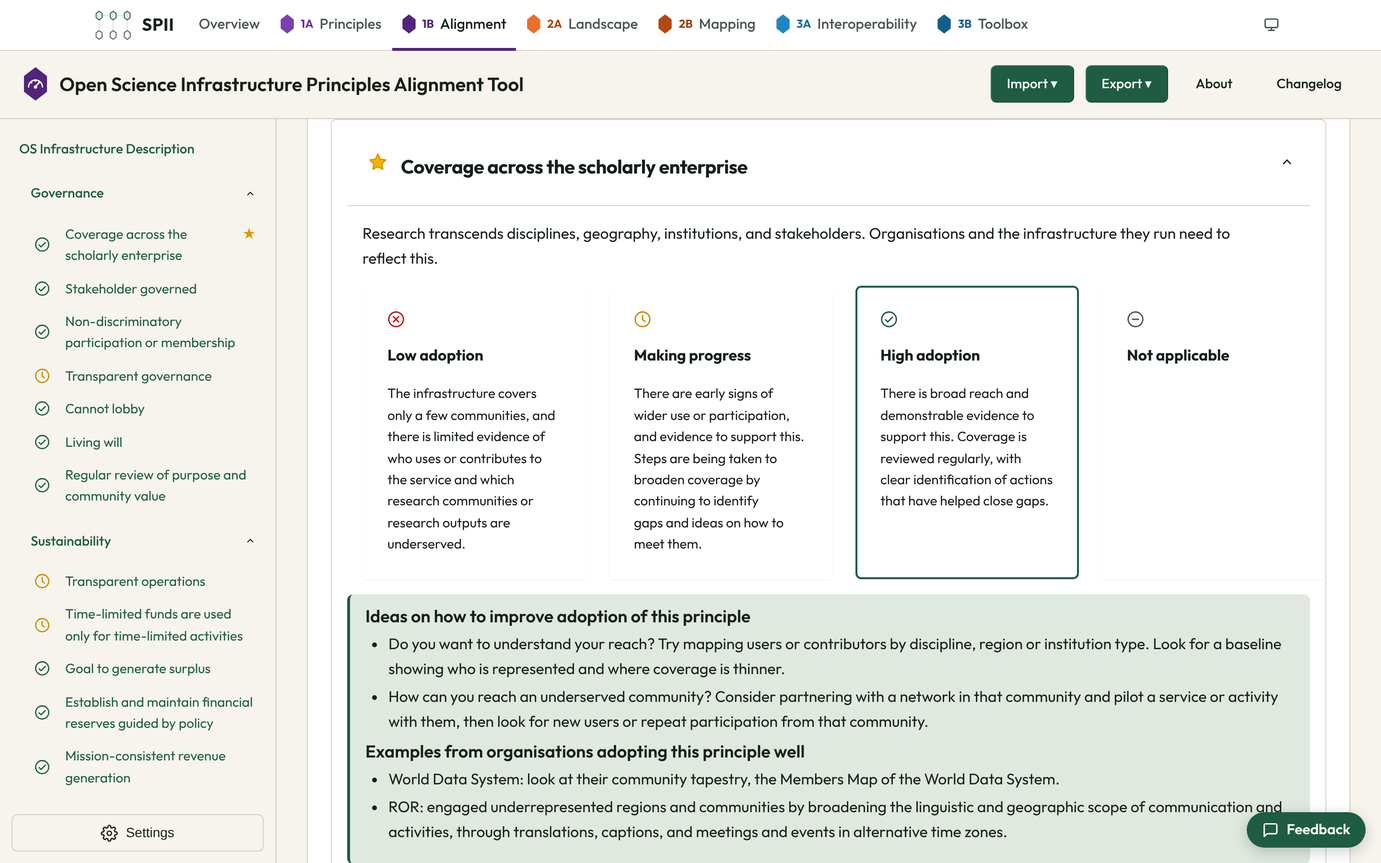
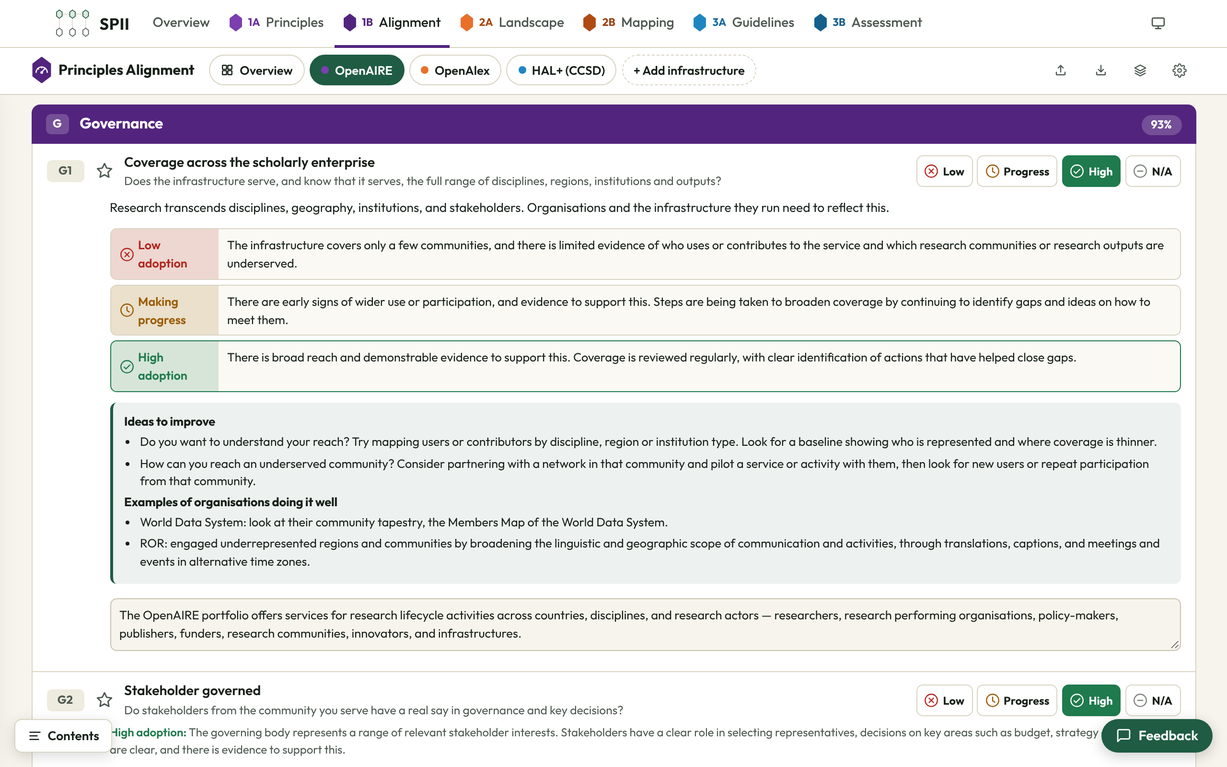
Presentation: new interface, QR codes, new 3A and 3B names
The how, frameworks and overview slides show the new interface; the
cover and the last slide have a QR code to the tool; the six-deliverable
slide uses the new names of 3A and 3B.

Claude-Session: https://claude.ai/code/session_01Ty7TZndw3rZSH1jYcDeSGp

diff --git a/docs/presentation/2026-12-02-osnl/index.html b/docs/presentation/2026-12-02-osnl/index.html
@@ -113,6 +113,14 @@ body.show-notes aside.notes { display: block; position: absolute; left: 0; right
   .deliv, .pcard, .ncard, .shot { animation: none; }
   #hud { display: none; }
 }
+
+/* QR codes and the new try-it layout (2026-11-27) */
+.cover-side { display: flex; flex-direction: column; align-items: center; gap: 24px; }
+.qr-row { display: flex; flex-direction: row; align-items: center; gap: 24px; }
+.qr-cap { font-size: 26px; line-height: 1.3; color: var(--on-dark-muted); }
+.url { font-size: 48px; line-height: 1.2; }
+.try-top { display: flex; flex-direction: row; align-items: center; gap: 64px; }
+.try-head { flex: 1; display: flex; flex-direction: column; gap: 32px; }
 </style>
 </head>
 <body>
@@ -125,9 +133,12 @@ body.show-notes aside.notes { display: block; position: absolute; left: 0; right
 <p class="lead">Self-assess how your Open Science infrastructure puts shared values and principles into practice.</p>
 <p class="cover-meta">Maurice Vanderfeesten, SURF · Open Science NL, 2 December 2026</p>
 </div>
-<svg aria-label="The six SPII deliverables as hexagons: three reference model parts on top, each with its tool below" viewBox="50 35 220 180" width="220" height="180" style="width:660px;height:540px"><g fill="none" stroke="#3a4539" stroke-width="2"><line x1="80" y1="70" x2="80" y2="180"/><line x1="160" y1="70" x2="160" y2="180"/><line x1="240" y1="70" x2="240" y2="180"/><line x1="80" y1="70" x2="240" y2="70"/></g><polygon points="80,45 97,58 97,82 80,95 63,82 63,58" fill="#7B3FB0" stroke="#7B3FB0" stroke-width="3" stroke-linejoin="round"/><g transform="translate(80 70) scale(0.62)" fill="none" stroke="#fff" stroke-width="3.54839" stroke-linecap="round" stroke-linejoin="round"><path d="M0 -18V16M-10 16H10M-17 -11H17M-17 -11L-22 3M-17 -11L-12 3M17 -11L12 3M17 -11L22 3"/><path d="M-22 3H-12A5 4 0 0 1 -22 3ZM12 3H22A5 4 0 0 1 12 3Z"/><circle cx="0" cy="-18" r="2.2"/></g><polygon points="80,155 97,168 97,192 80,205 63,192 63,168" fill="#52247D" stroke="#52247D" stroke-width="3" stroke-linejoin="round"/><g transform="translate(80 180) scale(0.62)" fill="none" stroke="#fff" stroke-width="3.54839" stroke-linecap="round" stroke-linejoin="round"><path d="M-18 8A18 18 0 0 1 18 8"/><path d="M-12.7 -4.7L-10 -2.6M0 -10V-6.5M12.7 -4.7L10 -2.6"/><path d="M0 8L9 -4"/><circle cx="0" cy="8" r="2.6"/></g><polygon points="160,45 177,58 177,82 160,95 143,82 143,58" fill="#E8702A" stroke="#E8702A" stroke-width="3" stroke-linejoin="round"/><g transform="translate(160 70) scale(0.62)" fill="none" stroke="#fff" stroke-width="3.54839" stroke-linecap="round" stroke-linejoin="round"><path d="M-17 16C-6 16 -14 2 -3 2S6 -8 12 -8" stroke-dasharray="3 4"/><circle cx="-17" cy="16" r="3"/><path d="M13 -2C9 -7 7 -10 7 -13A6 6 0 0 1 19 -13C19 -10 17 -7 13 -2Z"/></g><polygon points="160,155 177,168 177,192 160,205 143,192 143,168" fill="#B04A12" stroke="#B04A12" stroke-width="3" stroke-linejoin="round"/><g transform="translate(160 180) scale(0.62)" fill="none" stroke="#fff" stroke-width="3.54839" stroke-linecap="round" stroke-linejoin="round"><path d="M0 0L0 -15M0 0L-15 -4M0 0L14 -6M0 0L-8 14M0 0L11 13M-15 -4L0 -15L14 -6M-8 14L11 13"/><circle cx="0" cy="0" r="3.2"/><circle cx="0" cy="-15" r="2.6"/><circle cx="-15" cy="-4" r="2.6"/><circle cx="14" cy="-6" r="2.6"/><circle cx="-8" cy="14" r="2.6"/><circle cx="11" cy="13" r="2.6"/></g><polygon points="240,45 257,58 257,82 240,95 223,82 223,58" fill="#1F86C1" stroke="#1F86C1" stroke-width="3" stroke-linejoin="round"/><g transform="translate(240 70) scale(0.62)" fill="none" stroke="#fff" stroke-width="3.54839" stroke-linecap="round" stroke-linejoin="round"><circle cx="-6" cy="0" r="11"/><circle cx="6" cy="0" r="11"/></g><polygon points="240,155 257,168 257,192 240,205 223,192 223,168" fill="#145F8C" stroke="#145F8C" stroke-width="3" stroke-linejoin="round"/><g transform="translate(240 180) scale(0.62)" fill="none" stroke="#fff" stroke-width="3.54839" stroke-linecap="round" stroke-linejoin="round"><rect x="-18" y="-6" width="36" height="22" rx="2.5"/><path d="M-7 -6V-12H7V-6M-18 3H18M-3 3V7H3V3"/></g></svg>
+<div class="cover-side">
+<svg aria-label="The six SPII deliverables as hexagons: three reference model parts on top, each with its tool below" viewBox="50 35 220 180" width="220" height="180" style="width:480px;height:393px"><g fill="none" stroke="#3a4539" stroke-width="2"><line x1="80" y1="70" x2="80" y2="180"/><line x1="160" y1="70" x2="160" y2="180"/><line x1="240" y1="70" x2="240" y2="180"/><line x1="80" y1="70" x2="240" y2="70"/></g><polygon points="80,45 97,58 97,82 80,95 63,82 63,58" fill="#7B3FB0" stroke="#7B3FB0" stroke-width="3" stroke-linejoin="round"/><g transform="translate(80 70) scale(0.62)" fill="none" stroke="#fff" stroke-width="3.54839" stroke-linecap="round" stroke-linejoin="round"><path d="M0 -18V16M-10 16H10M-17 -11H17M-17 -11L-22 3M-17 -11L-12 3M17 -11L12 3M17 -11L22 3"/><path d="M-22 3H-12A5 4 0 0 1 -22 3ZM12 3H22A5 4 0 0 1 12 3Z"/><circle cx="0" cy="-18" r="2.2"/></g><polygon points="80,155 97,168 97,192 80,205 63,192 63,168" fill="#52247D" stroke="#52247D" stroke-width="3" stroke-linejoin="round"/><g transform="translate(80 180) scale(0.62)" fill="none" stroke="#fff" stroke-width="3.54839" stroke-linecap="round" stroke-linejoin="round"><path d="M-18 8A18 18 0 0 1 18 8"/><path d="M-12.7 -4.7L-10 -2.6M0 -10V-6.5M12.7 -4.7L10 -2.6"/><path d="M0 8L9 -4"/><circle cx="0" cy="8" r="2.6"/></g><polygon points="160,45 177,58 177,82 160,95 143,82 143,58" fill="#E8702A" stroke="#E8702A" stroke-width="3" stroke-linejoin="round"/><g transform="translate(160 70) scale(0.62)" fill="none" stroke="#fff" stroke-width="3.54839" stroke-linecap="round" stroke-linejoin="round"><path d="M-17 16C-6 16 -14 2 -3 2S6 -8 12 -8" stroke-dasharray="3 4"/><circle cx="-17" cy="16" r="3"/><path d="M13 -2C9 -7 7 -10 7 -13A6 6 0 0 1 19 -13C19 -10 17 -7 13 -2Z"/></g><polygon points="160,155 177,168 177,192 160,205 143,192 143,168" fill="#B04A12" stroke="#B04A12" stroke-width="3" stroke-linejoin="round"/><g transform="translate(160 180) scale(0.62)" fill="none" stroke="#fff" stroke-width="3.54839" stroke-linecap="round" stroke-linejoin="round"><path d="M0 0L0 -15M0 0L-15 -4M0 0L14 -6M0 0L-8 14M0 0L11 13M-15 -4L0 -15L14 -6M-8 14L11 13"/><circle cx="0" cy="0" r="3.2"/><circle cx="0" cy="-15" r="2.6"/><circle cx="-15" cy="-4" r="2.6"/><circle cx="14" cy="-6" r="2.6"/><circle cx="-8" cy="14" r="2.6"/><circle cx="11" cy="13" r="2.6"/></g><polygon points="240,45 257,58 257,82 240,95 223,82 223,58" fill="#1F86C1" stroke="#1F86C1" stroke-width="3" stroke-linejoin="round"/><g transform="translate(240 70) scale(0.62)" fill="none" stroke="#fff" stroke-width="3.54839" stroke-linecap="round" stroke-linejoin="round"><circle cx="-6" cy="0" r="11"/><circle cx="6" cy="0" r="11"/></g><polygon points="240,155 257,168 257,192 240,205 223,192 223,168" fill="#145F8C" stroke="#145F8C" stroke-width="3" stroke-linejoin="round"/><g transform="translate(240 180) scale(0.62)" fill="none" stroke="#fff" stroke-width="3.54839" stroke-linecap="round" stroke-linejoin="round"><rect x="-18" y="-6" width="36" height="22" rx="2.5"/><path d="M-7 -6V-12H7V-6M-18 3H18M-3 3V7H3V3"/></g></svg>
+<div class="qr-row"><svg class="qr" aria-label="QR code linking to surf-ori.github.io/spii-1b-principles-alignment-tool" viewBox="-3 -3 39 39" width="200" height="200"><rect x="-3" y="-3" width="39" height="39" rx="1.5" fill="#fbfaf5"/><path fill="none" stroke="#10140f" stroke-width="1" d="M0 0.5h7m1 0h1m1 0h2m2 0h3m6 0h1m2 0h7m-33 1h1m5 0h1m2 0h1m2 0h1m6 0h3m4 0h1m5 0h1m-33 1h1m1 0h3m1 0h1m2 0h1m2 0h1m1 0h5m2 0h1m1 0h2m1 0h1m1 0h3m1 0h1m-33 1h1m1 0h3m1 0h1m1 0h5m2 0h2m1 0h2m2 0h1m1 0h1m1 0h1m1 0h3m1 0h1m-33 1h1m1 0h3m1 0h1m1 0h2m2 0h1m1 0h2m2 0h1m2 0h1m1 0h1m2 0h1m1 0h3m1 0h1m-33 1h1m5 0h1m1 0h2m2 0h3m4 0h1m1 0h2m3 0h1m5 0h1m-33 1h7m1 0h1m1 0h1m1 0h1m1 0h1m1 0h1m1 0h1m1 0h1m1 0h1m1 0h1m1 0h7m-25 1h2m1 0h2m1 0h2m1 0h2m1 0h2m1 0h2m-25 1h1m3 0h1m1 0h3m1 0h1m1 0h1m2 0h3m2 0h3m1 0h6m2 0h1m-33 1h3m1 0h1m3 0h1m1 0h1m2 0h6m2 0h5m3 0h3m-29 1h2m1 0h2m1 0h1m1 0h2m2 0h1m2 0h1m2 0h1m1 0h1m1 0h2m2 0h1m1 0h1m-32 1h1m2 0h3m2 0h1m2 0h2m3 0h2m2 0h2m2 0h1m1 0h1m4 0h1m-32 1h1m1 0h5m1 0h1m2 0h4m2 0h1m1 0h4m1 0h1m1 0h1m1 0h2m1 0h2m-30 1h3m3 0h1m1 0h2m1 0h3m6 0h1m1 0h1m1 0h1m2 0h1m-31 1h4m2 0h3m2 0h1m1 0h3m6 0h2m1 0h2m1 0h4m-32 1h2m1 0h3m1 0h1m3 0h1m5 0h1m1 0h9m1 0h1m-24 1h2m1 0h1m4 0h5m2 0h4m1 0h1m1 0h1m2 0h1m-30 1h1m1 0h2m1 0h2m2 0h3m1 0h2m1 0h1m4 0h1m5 0h2m-31 1h2m4 0h1m3 0h1m1 0h4m1 0h2m1 0h4m3 0h1m1 0h1m-29 1h4m3 0h1m1 0h1m2 0h2m2 0h1m3 0h1m3 0h3m3 0h1m-32 1h2m1 0h1m2 0h1m1 0h2m3 0h1m1 0h1m1 0h2m1 0h3m1 0h1m1 0h1m1 0h2m-30 1h1m1 0h1m1 0h2m3 0h2m4 0h4m2 0h1m1 0h1m1 0h1m1 0h1m1 0h1m1 0h1m-30 1h2m2 0h1m1 0h1m1 0h3m2 0h1m2 0h1m1 0h4m3 0h1m3 0h1m-30 1h2m3 0h1m2 0h3m1 0h1m2 0h1m1 0h3m1 0h1m1 0h4m2 0h1m-32 1h2m1 0h2m1 0h3m4 0h1m1 0h1m1 0h1m1 0h3m2 0h6m-22 1h2m4 0h2m1 0h2m2 0h1m1 0h2m3 0h1m1 0h2m-32 1h7m1 0h2m1 0h2m1 0h2m1 0h2m1 0h2m2 0h1m1 0h1m1 0h2m-30 1h1m5 0h1m10 0h6m1 0h1m3 0h1m2 0h1m-32 1h1m1 0h3m1 0h1m1 0h4m2 0h2m1 0h1m1 0h4m1 0h6m1 0h1m-32 1h1m1 0h3m1 0h1m2 0h1m2 0h6m3 0h1m1 0h2m1 0h3m1 0h1m-31 1h1m1 0h3m1 0h1m3 0h2m3 0h3m2 0h1m4 0h5m-30 1h1m5 0h1m2 0h2m4 0h1m1 0h2m2 0h2m1 0h1m1 0h1m-27 1h7m1 0h1m2 0h1m2 0h1m2 0h1m2 0h5m1 0h1m2 0h1m2 0h1"/></svg><p class="qr-cap">Scan to try the tool<br>during the talk</p></div>
 </div>
-<aside class="notes">About 30 seconds. Good afternoon. I will show you the Principles Alignment Tool: a free, open tool to self-assess how your Open Science infrastructure puts shared values and principles into practice. It is deliverable 1B of SPII, the Strategic Plan for Integrated Infrastructure. The six hexagons are the six SPII deliverables; this tool is the purple one at the bottom left.</aside>
+</div>
+<aside class="notes">About 30 seconds. Good afternoon. I will show you the Principles Alignment Tool: a free, open tool to self-assess how your Open Science infrastructure puts shared values and principles into practice. It is deliverable 1B of SPII, the Strategic Plan for Integrated Infrastructure. The six hexagons are the six SPII deliverables; this tool is the purple one at the bottom left. If you want to try it while I talk, scan the QR code.</aside>
 </section>
 <section id="why" class="slide">
 <div class="why-row">
@@ -139,13 +150,13 @@ body.show-notes aside.notes { display: block; position: absolute; left: 0; right
 <div class="deliv-grid">
 <div class="deliv" style="--i:0"><svg class="hex" aria-label="1A hexagon" viewBox="-20 -27 40 54" width="40" height="54"><polygon points="0,-25 17,-12 17,12 0,25 -17,12 -17,-12" fill="#7B3FB0" stroke="#7B3FB0" stroke-width="3" stroke-linejoin="round"/><g transform="translate(0 0) scale(0.62)" fill="none" stroke="#fff" stroke-width="3.54839" stroke-linecap="round" stroke-linejoin="round"><path d="M0 -18V16M-10 16H10M-17 -11H17M-17 -11L-22 3M-17 -11L-12 3M17 -11L12 3M17 -11L22 3"/><path d="M-22 3H-12A5 4 0 0 1 -22 3ZM12 3H22A5 4 0 0 1 12 3Z"/><circle cx="0" cy="-18" r="2.2"/></g></svg><p class="code">1A · MODEL</p><p class="name">Values and Principles</p></div>
 <div class="deliv" style="--i:1"><svg class="hex" aria-label="2A hexagon" viewBox="-20 -27 40 54" width="40" height="54"><polygon points="0,-25 17,-12 17,12 0,25 -17,12 -17,-12" fill="#E8702A" stroke="#E8702A" stroke-width="3" stroke-linejoin="round"/><g transform="translate(0 0) scale(0.62)" fill="none" stroke="#fff" stroke-width="3.54839" stroke-linecap="round" stroke-linejoin="round"><path d="M-17 16C-6 16 -14 2 -3 2S6 -8 12 -8" stroke-dasharray="3 4"/><circle cx="-17" cy="16" r="3"/><path d="M13 -2C9 -7 7 -10 7 -13A6 6 0 0 1 19 -13C19 -10 17 -7 13 -2Z"/></g></svg><p class="code">2A · MODEL</p><p class="name">Landscape &amp; Researcher Journey</p></div>
-<div class="deliv" style="--i:2"><svg class="hex" aria-label="3A hexagon" viewBox="-20 -27 40 54" width="40" height="54"><polygon points="0,-25 17,-12 17,12 0,25 -17,12 -17,-12" fill="#1F86C1" stroke="#1F86C1" stroke-width="3" stroke-linejoin="round"/><g transform="translate(0 0) scale(0.62)" fill="none" stroke="#fff" stroke-width="3.54839" stroke-linecap="round" stroke-linejoin="round"><circle cx="-6" cy="0" r="11"/><circle cx="6" cy="0" r="11"/></g></svg><p class="code">3A · MODEL</p><p class="name">Capabilities &amp; Interoperability</p></div>
+<div class="deliv" style="--i:2"><svg class="hex" aria-label="3A hexagon" viewBox="-20 -27 40 54" width="40" height="54"><polygon points="0,-25 17,-12 17,12 0,25 -17,12 -17,-12" fill="#1F86C1" stroke="#1F86C1" stroke-width="3" stroke-linejoin="round"/><g transform="translate(0 0) scale(0.62)" fill="none" stroke="#fff" stroke-width="3.54839" stroke-linecap="round" stroke-linejoin="round"><circle cx="-6" cy="0" r="11"/><circle cx="6" cy="0" r="11"/></g></svg><p class="code">3A · MODEL</p><p class="name">Practical Interoperability Guidelines</p></div>
 <div class="deliv is-here" style="--i:3"><svg class="hex" aria-label="1B hexagon" viewBox="-20 -27 40 54" width="40" height="54"><polygon points="0,-25 17,-12 17,12 0,25 -17,12 -17,-12" fill="#52247D" stroke="#52247D" stroke-width="3" stroke-linejoin="round"/><g transform="translate(0 0) scale(0.62)" fill="none" stroke="#fff" stroke-width="3.54839" stroke-linecap="round" stroke-linejoin="round"><path d="M-18 8A18 18 0 0 1 18 8"/><path d="M-12.7 -4.7L-10 -2.6M0 -10V-6.5M12.7 -4.7L10 -2.6"/><path d="M0 8L9 -4"/><circle cx="0" cy="8" r="2.6"/></g></svg><p class="code">1B · TOOL · TODAY</p><p class="name">Principles Alignment Tool</p></div>
 <div class="deliv" style="--i:4"><svg class="hex" aria-label="2B hexagon" viewBox="-20 -27 40 54" width="40" height="54"><polygon points="0,-25 17,-12 17,12 0,25 -17,12 -17,-12" fill="#B04A12" stroke="#B04A12" stroke-width="3" stroke-linejoin="round"/><g transform="translate(0 0) scale(0.62)" fill="none" stroke="#fff" stroke-width="3.54839" stroke-linecap="round" stroke-linejoin="round"><path d="M0 0L0 -15M0 0L-15 -4M0 0L14 -6M0 0L-8 14M0 0L11 13M-15 -4L0 -15L14 -6M-8 14L11 13"/><circle cx="0" cy="0" r="3.2"/><circle cx="0" cy="-15" r="2.6"/><circle cx="-15" cy="-4" r="2.6"/><circle cx="14" cy="-6" r="2.6"/><circle cx="-8" cy="14" r="2.6"/><circle cx="11" cy="13" r="2.6"/></g></svg><p class="code">2B · TOOL</p><p class="name">Inventory of infrastructures and projects</p></div>
-<div class="deliv" style="--i:5"><svg class="hex" aria-label="3B hexagon" viewBox="-20 -27 40 54" width="40" height="54"><polygon points="0,-25 17,-12 17,12 0,25 -17,12 -17,-12" fill="#145F8C" stroke="#145F8C" stroke-width="3" stroke-linejoin="round"/><g transform="translate(0 0) scale(0.62)" fill="none" stroke="#fff" stroke-width="3.54839" stroke-linecap="round" stroke-linejoin="round"><rect x="-18" y="-6" width="36" height="22" rx="2.5"/><path d="M-7 -6V-12H7V-6M-18 3H18M-3 3V7H3V3"/></g></svg><p class="code">3B · TOOL</p><p class="name">Toolbox of shared components</p></div>
+<div class="deliv" style="--i:5"><svg class="hex" aria-label="3B hexagon" viewBox="-20 -27 40 54" width="40" height="54"><polygon points="0,-25 17,-12 17,12 0,25 -17,12 -17,-12" fill="#145F8C" stroke="#145F8C" stroke-width="3" stroke-linejoin="round"/><g transform="translate(0 0) scale(0.62)" fill="none" stroke="#fff" stroke-width="3.54839" stroke-linecap="round" stroke-linejoin="round"><rect x="-18" y="-6" width="36" height="22" rx="2.5"/><path d="M-7 -6V-12H7V-6M-18 3H18M-3 3V7H3V3"/></g></svg><p class="code">3B · TOOL</p><p class="name">Interoperability Assessment Tool</p></div>
 </div>
 </div>
-<aside class="notes">About 45 seconds. Why this tool? It was designed and developed in SPII, the Strategic Plan for Integrated Infrastructure: a project that works on a reference model for a coherent and connected Open Science infrastructure for the Netherlands. The reference model has three parts on top: values and principles, the landscape and researcher journey, and capabilities and interoperability. Each part has a tool below it that puts it into practice. Today is about the first tool: the Principles Alignment Tool.</aside>
+<aside class="notes">About 45 seconds. Why this tool? It was designed and developed in SPII, the Strategic Plan for Integrated Infrastructure: a project that works on a reference model for a coherent and connected Open Science infrastructure for the Netherlands. The reference model has three parts on top: values and principles, the landscape and researcher journey, and practical interoperability guidelines. Each part has a tool below it that puts it into practice. Today is about the first tool: the Principles Alignment Tool.</aside>
 </section>
 <section id="principles" class="slide">
 <p class="eyebrow">Principles</p>
@@ -175,50 +186,51 @@ body.show-notes aside.notes { display: block; position: absolute; left: 0; right
 </section>
 <section id="how" class="slide">
 <div class="shot-row">
-<img class="shot" src="principle.png" alt="The tool showing the principle Coverage across the scholarly enterprise, marked as a priority with a star, with a description for each adoption level and ideas to improve" style="--i:0">
+<img class="shot" src="principle.png" alt="The tool showing the principle Coverage across the scholarly enterprise for OpenAIRE: rating buttons with icons, rated High, unfolded to what each adoption level looks like, ideas to improve, examples and a note" style="--i:0">
 <div class="shot-text">
 <p class="eyebrow">How it works</p>
 <h2>Rate each principle</h2>
 <ol class="steps">
-<li>Describe your infrastructure</li>
-<li>Rate each principle from low to high adoption, or not applicable</li>
+<li>Add your infrastructure and the research activities it supports</li>
+<li>Rate each principle: low, progress, high or not applicable</li>
 <li>Star your priorities</li>
-<li>Read what each level looks like, with ideas to improve and examples</li>
+<li>Unfold a principle: what each level looks like, ideas to improve, examples</li>
 </ol>
 </div>
 </div>
-<aside class="notes">About 45 seconds. How does it work? You describe your infrastructure, then rate each principle: low adoption, making progress, high adoption, or not applicable. You can star the principles that matter most to you. And for guidance, you can switch on descriptions of what each level looks like, with ideas to improve and examples from organisations that do it well. These come from the reports of POSI adopters; the first two principles have them today.</aside>
+<aside class="notes">About 45 seconds. How does it work? You add your infrastructure, describe it, and pick the research activities it supports. Then you rate each principle with one click, or with the keys 1, 2, 3 and 0: low adoption, making progress, high adoption, or not applicable. Each principle has a short question to help you. You can star the principles that matter most to you. And when you want guidance, you unfold a principle: what each level looks like, ideas to improve and examples from organisations that do it well. These come from the reports of POSI adopters.</aside>
 </section>
 <section id="scale" class="slide">
 <div class="shot-row">
-<img class="shot" src="scale.png" alt="The Customize scale dialog for POSI: per option an icon, a colour, a title, an optional description and whether it counts toward the score" style="--i:0">
+<img class="shot" src="framework.png" alt="The Framework and scale dialog: a catalogue with POSI v2.0 marked approved, every field of the framework editable, and the scale in a closed section" style="--i:0">
 <div class="shot-text">
-<p class="eyebrow">Customization</p>
-<h2>Define your own scale</h2>
+<p class="eyebrow">Frameworks</p>
+<h2>Choose a framework, or make it yours</h2>
 <ul class="steps">
-<li>The default runs from low adoption to high adoption</li>
-<li>Choose icons, colours, numbers and your own text per level</li>
-<li>Say what “high adoption” means for you, or use a traffic light</li>
+<li>A catalogue: POSI first, then GORC, FAIR, CARE, FOREST and more</li>
+<li>Edit the scale: icons, colours, titles and descriptions</li>
+<li>Edit, add and reorder the principles themselves</li>
+<li>Import or download a framework as JSON</li>
 </ul>
 </div>
 </div>
-<aside class="notes">About 45 seconds. You can customize and define your own scale for the whole self-assessment. By default it runs from low adoption to high adoption. But you can choose icons, colours and numbers, and write a text for each level: for example, define what low or high adoption means in your case. Or don’t use these definitions at all and use a traffic light system instead.</aside>
+<aside class="notes">About 45 seconds. POSI plus the complementary principles is the default, but the tool has a catalogue of frameworks: approved ones first, then others such as GORC, FAIR, CARE and FOREST. Everything about a framework is open for full disclosure, and you can change it: the scale, with its icons, colours and the text for each level, and the principles themselves, which you can edit, add, remove and reorder. You can import your own framework and download it again to share.</aside>
 </section>
 <section id="report" class="slide">
 <div class="shot-row">
-<img class="shot" src="summary.png" alt="The alignment summary of an example report: 92 percent, with a bar per section showing low adoption, making progress and high adoption" style="--i:0">
+<img class="shot" src="overview.png" alt="The overview with three example infrastructures: the research-landscape circle, where each slice is a research activity and further out means more aligned, and a scatter plot of Governance against Insurance" style="--i:0">
 <div class="shot-text">
-<p class="eyebrow">Summary report</p>
-<h2>See where you stand, and keep your work</h2>
+<p class="eyebrow">Overview and report</p>
+<h2>Compare infrastructures side by side</h2>
 <ul class="steps">
-<li>An alignment summary per section</li>
-<li>Saved automatically in your browser, until you start a new alignment</li>
-<li>Import an example (OpenAIRE, OpenAlex, HAL) to see how it was done</li>
-<li>Export to JSON, PDF or Word</li>
+<li>The research-landscape circle: further out means more aligned</li>
+<li>A scatter plot with the axes you choose</li>
+<li>Saved in your browser; try the OpenAIRE, OpenAlex and HAL examples</li>
+<li>Export to JSON, PDF or Word, or share via GitHub</li>
 </ul>
 </div>
 </div>
-<aside class="notes">About 60 seconds. At the end you get a summary report: an overview of how you are working against these principles, per section. Your answers are saved automatically in your browser until you click Start a new alignment, and you can also save them to a file. Don’t know where to start? Import an existing assessment, for example the ones for OpenAIRE, OpenAlex or HAL, and see how it was completed. And you can export your alignment as a report in different formats, JSON, PDF and Word, which is useful for internal discussions about the development of your infrastructure.</aside>
+<aside class="notes">About 60 seconds. You can assess several infrastructures and compare them in one overview. The circle shows the research landscape: each slice is a research activity, and the further out an infrastructure sits, the more aligned it is. You can switch between the research life cycle and research administration. Next to it, a scatter plot where you choose what goes on each axis. Your answers are saved automatically in your browser. Don’t know where to start? Load the examples for OpenAIRE, OpenAlex and HAL. And you can export a report as JSON, PDF or Word, or share it through the GitHub tracker, which is useful for internal discussions about the development of your infrastructure.</aside>
 </section>
 <section id="next" class="slide">
 <p class="eyebrow">What is coming next</p>
@@ -245,9 +257,14 @@ body.show-notes aside.notes { display: block; position: absolute; left: 0; right
 </section>
 <section id="try" class="slide dark">
 <div class="try-box">
+<div class="try-top">
+<div class="try-head">
 <p class="eyebrow">Try it today</p>
 <h2>Self-assess your infrastructure</h2>
-<p class="url">surf-ori.github.io/spii-1b-principles-alignment-tool</p>
+<p class="url">surf-ori.github.io/<br>spii-1b-principles-alignment-tool</p>
+</div>
+<svg class="qr" aria-label="QR code linking to surf-ori.github.io/spii-1b-principles-alignment-tool" viewBox="-3 -3 39 39" width="400" height="400"><rect x="-3" y="-3" width="39" height="39" rx="1.5" fill="#fbfaf5"/><path fill="none" stroke="#10140f" stroke-width="1" d="M0 0.5h7m1 0h1m1 0h2m2 0h3m6 0h1m2 0h7m-33 1h1m5 0h1m2 0h1m2 0h1m6 0h3m4 0h1m5 0h1m-33 1h1m1 0h3m1 0h1m2 0h1m2 0h1m1 0h5m2 0h1m1 0h2m1 0h1m1 0h3m1 0h1m-33 1h1m1 0h3m1 0h1m1 0h5m2 0h2m1 0h2m2 0h1m1 0h1m1 0h1m1 0h3m1 0h1m-33 1h1m1 0h3m1 0h1m1 0h2m2 0h1m1 0h2m2 0h1m2 0h1m1 0h1m2 0h1m1 0h3m1 0h1m-33 1h1m5 0h1m1 0h2m2 0h3m4 0h1m1 0h2m3 0h1m5 0h1m-33 1h7m1 0h1m1 0h1m1 0h1m1 0h1m1 0h1m1 0h1m1 0h1m1 0h1m1 0h1m1 0h7m-25 1h2m1 0h2m1 0h2m1 0h2m1 0h2m1 0h2m-25 1h1m3 0h1m1 0h3m1 0h1m1 0h1m2 0h3m2 0h3m1 0h6m2 0h1m-33 1h3m1 0h1m3 0h1m1 0h1m2 0h6m2 0h5m3 0h3m-29 1h2m1 0h2m1 0h1m1 0h2m2 0h1m2 0h1m2 0h1m1 0h1m1 0h2m2 0h1m1 0h1m-32 1h1m2 0h3m2 0h1m2 0h2m3 0h2m2 0h2m2 0h1m1 0h1m4 0h1m-32 1h1m1 0h5m1 0h1m2 0h4m2 0h1m1 0h4m1 0h1m1 0h1m1 0h2m1 0h2m-30 1h3m3 0h1m1 0h2m1 0h3m6 0h1m1 0h1m1 0h1m2 0h1m-31 1h4m2 0h3m2 0h1m1 0h3m6 0h2m1 0h2m1 0h4m-32 1h2m1 0h3m1 0h1m3 0h1m5 0h1m1 0h9m1 0h1m-24 1h2m1 0h1m4 0h5m2 0h4m1 0h1m1 0h1m2 0h1m-30 1h1m1 0h2m1 0h2m2 0h3m1 0h2m1 0h1m4 0h1m5 0h2m-31 1h2m4 0h1m3 0h1m1 0h4m1 0h2m1 0h4m3 0h1m1 0h1m-29 1h4m3 0h1m1 0h1m2 0h2m2 0h1m3 0h1m3 0h3m3 0h1m-32 1h2m1 0h1m2 0h1m1 0h2m3 0h1m1 0h1m1 0h2m1 0h3m1 0h1m1 0h1m1 0h2m-30 1h1m1 0h1m1 0h2m3 0h2m4 0h4m2 0h1m1 0h1m1 0h1m1 0h1m1 0h1m1 0h1m-30 1h2m2 0h1m1 0h1m1 0h3m2 0h1m2 0h1m1 0h4m3 0h1m3 0h1m-30 1h2m3 0h1m2 0h3m1 0h1m2 0h1m1 0h3m1 0h1m1 0h4m2 0h1m-32 1h2m1 0h2m1 0h3m4 0h1m1 0h1m1 0h1m1 0h3m2 0h6m-22 1h2m4 0h2m1 0h2m2 0h1m1 0h2m3 0h1m1 0h2m-32 1h7m1 0h2m1 0h2m1 0h2m1 0h2m1 0h2m2 0h1m1 0h1m1 0h2m-30 1h1m5 0h1m10 0h6m1 0h1m3 0h1m2 0h1m-32 1h1m1 0h3m1 0h1m1 0h4m2 0h2m1 0h1m1 0h4m1 0h6m1 0h1m-32 1h1m1 0h3m1 0h1m2 0h1m2 0h6m3 0h1m1 0h2m1 0h3m1 0h1m-31 1h1m1 0h3m1 0h1m3 0h2m3 0h3m2 0h1m4 0h5m-30 1h1m5 0h1m2 0h2m4 0h1m1 0h2m2 0h2m1 0h1m1 0h1m-27 1h7m1 0h1m2 0h1m2 0h1m2 0h1m2 0h5m1 0h1m2 0h1m2 0h1"/></svg>
+</div>
 <div class="try-list">
 <div class="try-item">
 <h3>Free and open</h3>
@@ -263,7 +280,7 @@ body.show-notes aside.notes { display: block; position: absolute; left: 0; right
 </div>
 </div>
 </div>
-<aside class="notes">About 20 seconds. You can try it today, at this address. It is free and open, runs in your browser, and your answers stay on your device. We would love your feedback: there is a feedback button at the bottom right of every SPII page. And the overview page shows all six SPII deliverables. Thank you.</aside>
+<aside class="notes">About 20 seconds. You can try it today: scan the QR code or go to this address. It is free and open, runs in your browser, and your answers stay on your device. We would love your feedback: there is a feedback button at the bottom right of every SPII page. And the overview page shows all six SPII deliverables. Thank you.</aside>
 </section>
 </div>
 <div id="hud">← → to browse · N notes · F full screen · P print</div>

diff --git a/docs/presentation/2026-12-02-osnl/README.md b/docs/presentation/2026-12-02-osnl/README.md
@@ -1,8 +1,8 @@
 # Presentation: Open Science NL, 2 December 2026
 
-Eight slides (about 6–7 minutes) introducing the Principles Alignment Tool, based on Nida's talking notes.
+Eight slides (about 6–7 minutes) introducing the Principles Alignment Tool, based on Nida’s talking notes. Updated 27 November 2026 for the new interface, with a QR code to the tool on the first and last slide.
 
 - Open `index.html` in a browser, or online: https://surf-ori.github.io/spii-1b-principles-alignment-tool/docs/presentation/2026-12-02-osnl/
 - Keys: ← → (or click) to browse, N shows the speaker notes, F full screen, P print (one slide per page, also to PDF).
 - `#slide-3` in the address opens slide 3.
-- One self-contained file (slides are 1920×1080, scaled to the window); the screenshots are the PNG files next to it, the Outfit font comes from `../../../fonts/`, and the favicon from the SPII design system.
+- One self-contained file (slides are 1920×1080, scaled to the window); the screenshots are the PNG files next to it (principle.png, framework.png, overview.png), the Outfit font comes from `../../../fonts/`, and the favicon from the SPII design system.
